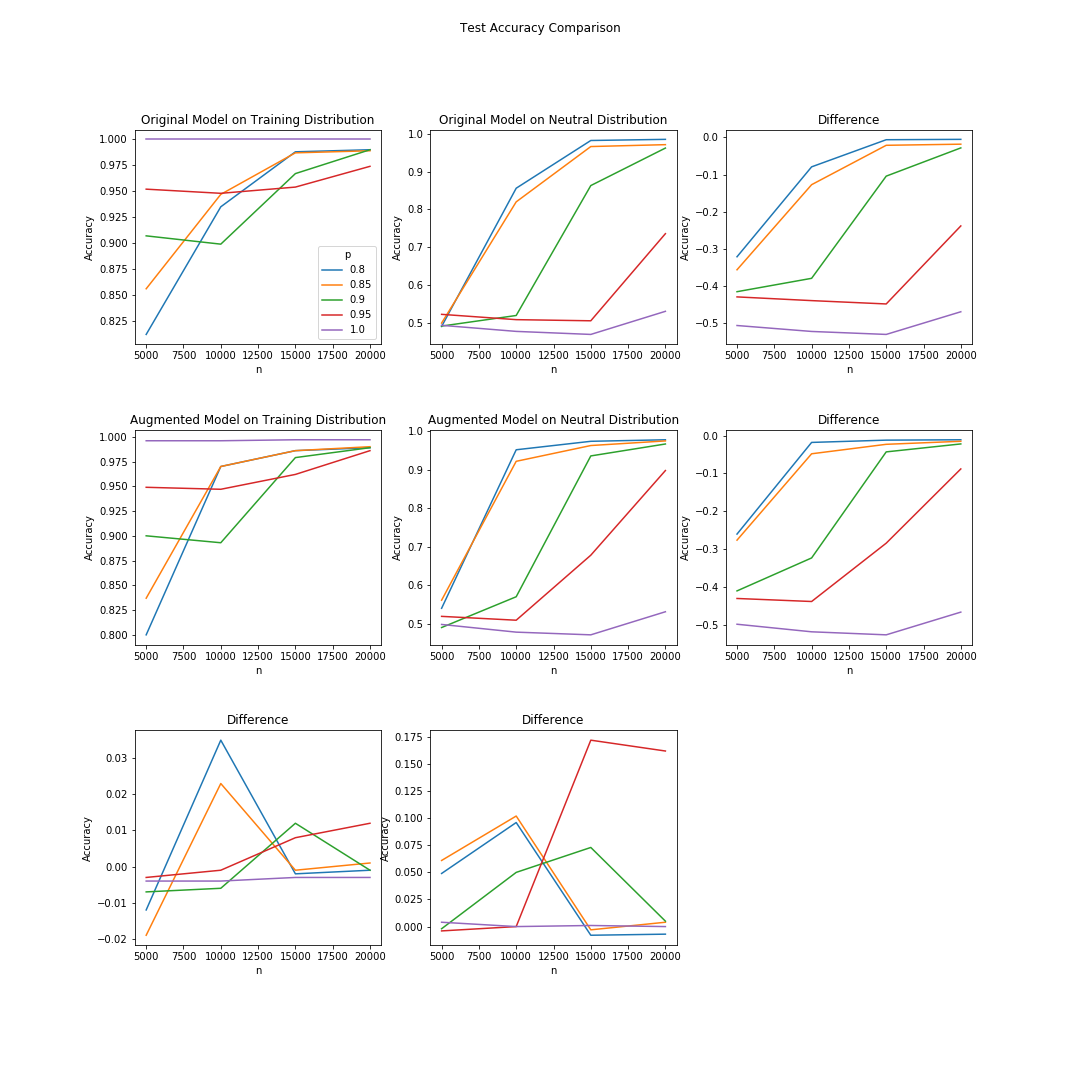
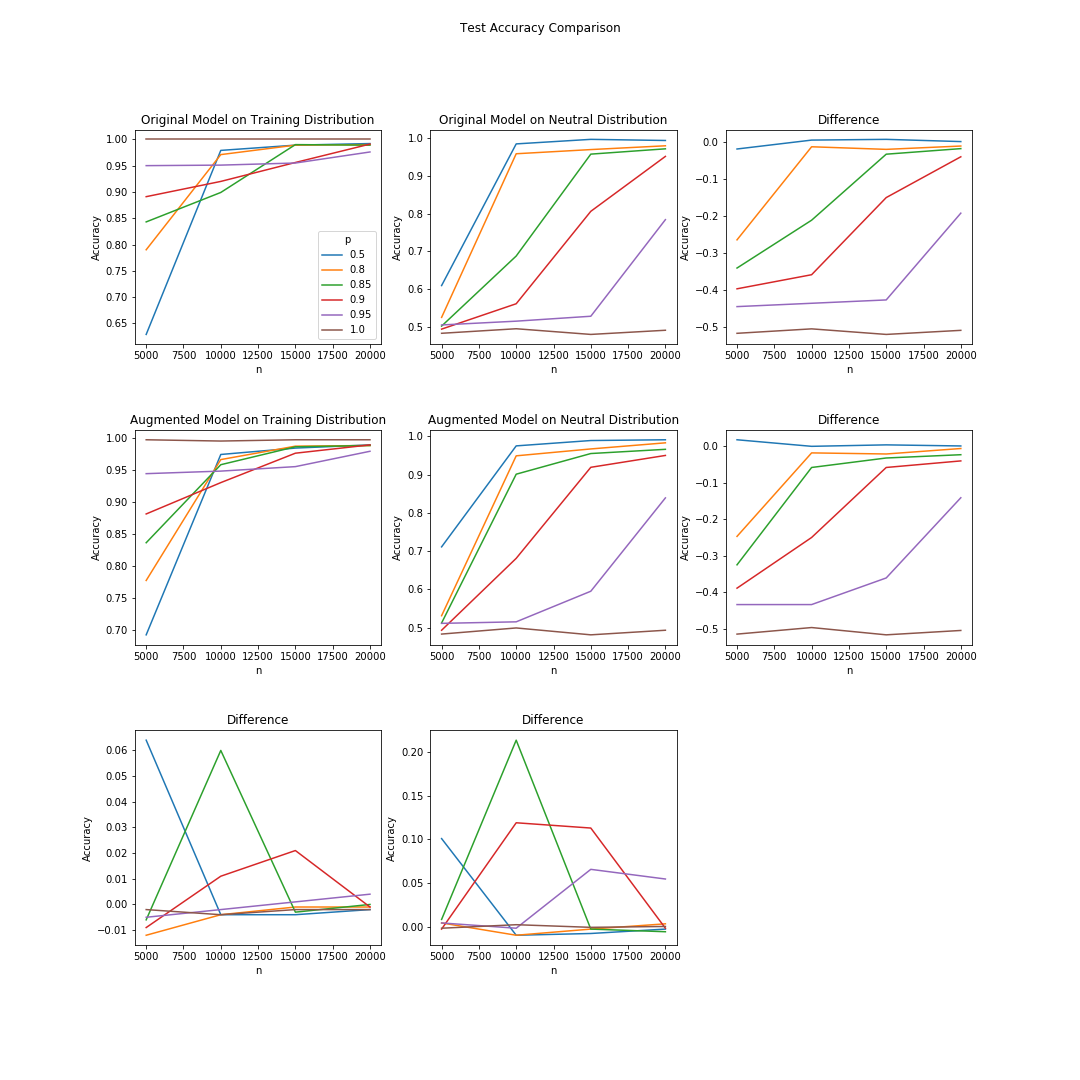
Added a baseline with of the good distribution for comparison

diff --git a/SyntheticImages/Run.py b/SyntheticImages/Run.py
@@ -37,7 +37,7 @@ def eval(sample, n, p, n_neutral, heuristic):
     return out
     
 if __name__ == "__main__":
-    mode = 2
+    mode = 3
     n_neutral = 200
 
     n_trials = 5
@@ -65,7 +65,7 @@ if __name__ == "__main__":
         from Sample import sample_3 as sample
     
     n_array = [5000, 10000, 15000, 20000]
-    p_array = [0.8, 0.85, 0.9, 0.95, 1.0]
+    p_array = [0.5, 0.8, 0.85, 0.9, 0.95, 1.0]
     
     n_runs = len(n_array) * len(p_array)
     
